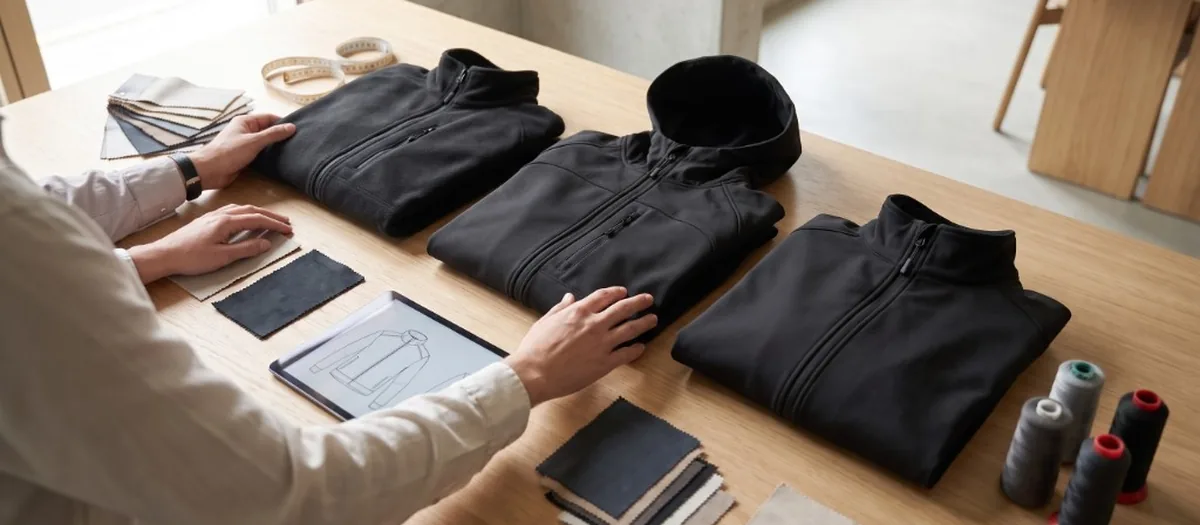
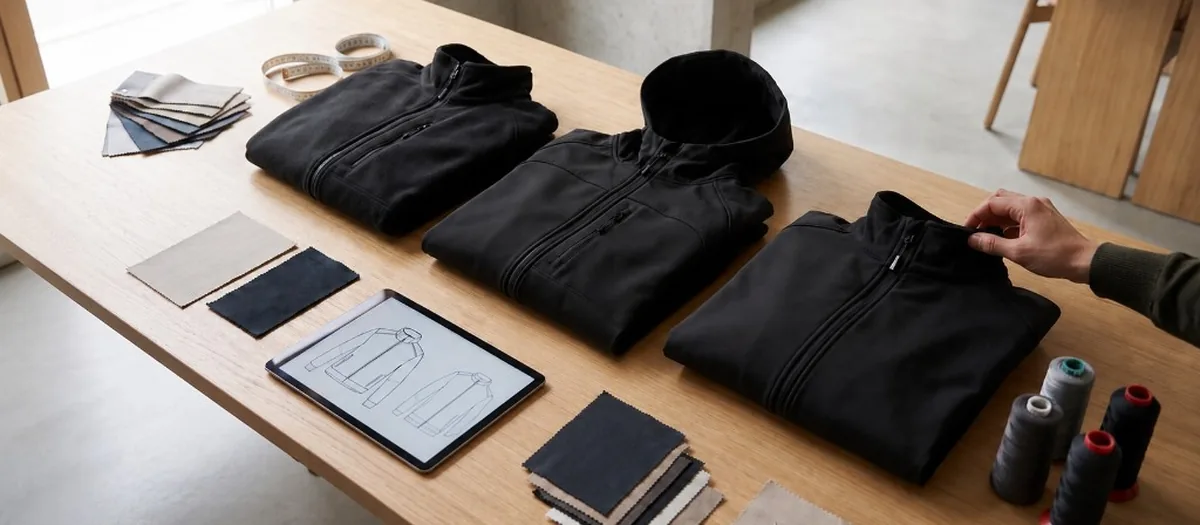
Corriger le visuel co-création étape 02 Conception.
Remplace l'image conception par le visuel table de design et met à jour les textes alternatifs.

diff --git a/index.html b/index.html
@@ -313,7 +313,7 @@
         <div class="home-timeline__visual">
           <img src="assets/images/timeline/timeline-ecoute.webp" alt="Consultation client avec échantillons textile — étape écoute" width="1200"
             height="525" class="is-active" loading="lazy">
-          <img src="assets/images/timeline/timeline-conception.webp" alt="Conception de la gamme vestes techniques — étape conception" width="1200"
+          <img src="assets/images/timeline/timeline-conception.webp" alt="Table de conception avec vestes, croquis tablette et échantillons textiles — étape conception" width="1200"
             height="525" loading="lazy">
           <img src="assets/images/timeline/timeline-prototype.webp" alt="Essayage du prototype sur chantier — étape prototype" width="1200"
             height="525" loading="lazy">

diff --git a/scripts/sync-media.py b/scripts/sync-media.py
@@ -37,7 +37,7 @@ TIMELINE_SOURCES: list[tuple[Path, str, str] | tuple[Path, str, str, str]] = [
     (
         SRC_COCREATION / "02-conception.png",
         "conception",
-        "Conception de la gamme vestes techniques — étape conception",
+        "Table de conception avec vestes, croquis tablette et échantillons textiles — étape conception",
     ),
     (
         SRC_COCREATION / "03-prototype.png",